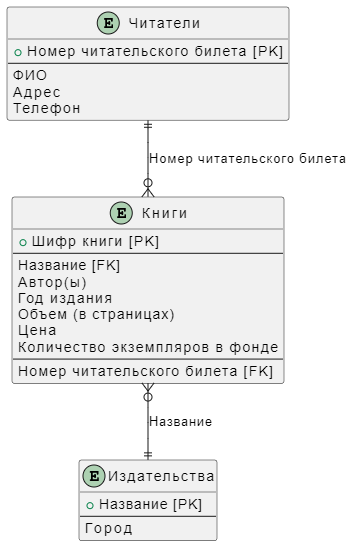
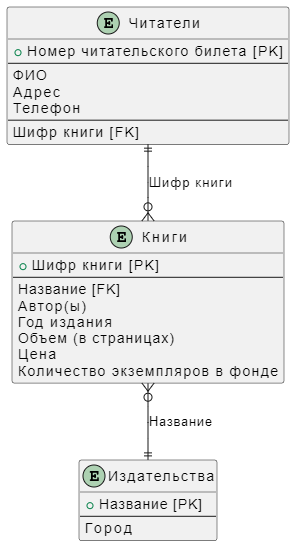
fix connection

Changed region(s): [[0.0, 0.0, 1.0, 0.9945]]

diff --git a/README.md b/README.md
@@ -6,6 +6,7 @@
 - ФИО
 - Адрес
 - Телефон
+- Шифр книги (внешний ключ)
 
 ## Таблица "Книги"
 
@@ -16,7 +17,6 @@
 - Объем (в страницах)
 - Цена
 - Количество экземпляров в фонде
-- Номер читательского билета (внешний ключ)
 
 ## Таблица "Издательства"
 
@@ -33,12 +33,12 @@
 
 ### Внешние ключи
 
-- "Номер читательского билета" в таблице "Книги" (связь с таблицей "Читатели")
+- "Шифр книги" в таблице "Читатели" (связь с таблицей "Книги")
 - "Название" в таблице "Книги" (связь с таблицей "Издательства")
 
 ## Связь между таблицами "Читатели" и "Книги"
 
-Поле "Номер читательского билета" из таблицы "Читатели" является внешним ключом в таблице "Книги", связывающим информацию о читателях с книгами, которые они забрали. Эта связь позволяет отслеживать, какие книги имеются у каждого читателя.
+Поле "Шифр книги" из таблицы "Книги" является внешним ключом в таблице "Читатели", связывающим информацию о читателях с книгами, которые они забрали. Эта связь позволяет отслеживать, какие книги имеются у каждого читателя.
 
 ## Связь между таблицами "Книги" и "Издательства"
 
